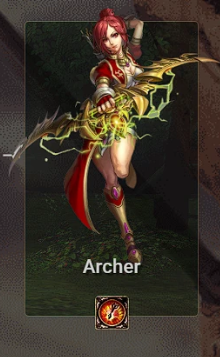
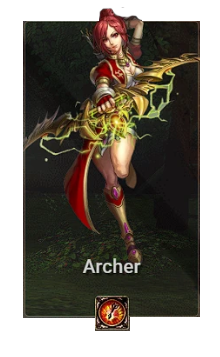
Wardrobe: dotted Coins/Gold price inputs + updated class portraits
Price fields now format with thousands dots as you type (450000 -> 450.000),
matching how they're already shown on the summary/public page. Also picks up
the refined class portrait crops.

diff --git a/src/components/wardrobe/WardrobeBuilder.tsx b/src/components/wardrobe/WardrobeBuilder.tsx
@@ -9,7 +9,7 @@ import {
 import { fetchWardrobeItems } from '../../lib/wardrobe/items';
 import { applyEquip, patchEquipped } from '../../lib/wardrobe/logic';
 import {
-  EMPTY_EQUIPMENT, SLOT_TO_ITEM_SLOT, WARDROBE_CLASSES,
+  EMPTY_EQUIPMENT, SLOT_TO_ITEM_SLOT, WARDROBE_CLASSES, fmtWardrobeNumber,
   type CharacterSoul, type Equipment, type EquipSlotKey, type ItemSlot, type WardrobeCharacter,
   type WardrobeClass, type WardrobeItem,
 } from '../../lib/wardrobe/types';
@@ -130,10 +130,20 @@ export function WardrobeBuilder({ editId, onDone }: { editId?: string; onDone: (
 
           <h2 className="mk-h2">{t('wd.sale.title')}</h2>
           <label className="mk-field"><span>{t('wd.sale.pricecoins')}</span>
-            <input type="number" min={0} value={priceCoins} onChange={(e) => setPriceCoins(e.target.value)} placeholder="0" />
+            <input
+              type="text" inputMode="numeric"
+              value={priceCoins ? fmtWardrobeNumber(Number(priceCoins)) : ''}
+              onChange={(e) => setPriceCoins(e.target.value.replace(/\D/g, ''))}
+              placeholder="0"
+            />
           </label>
           <label className="mk-field"><span>{t('wd.sale.pricegold')}</span>
-            <input type="number" min={0} value={priceGold} onChange={(e) => setPriceGold(e.target.value)} placeholder="0" />
+            <input
+              type="text" inputMode="numeric"
+              value={priceGold ? fmtWardrobeNumber(Number(priceGold)) : ''}
+              onChange={(e) => setPriceGold(e.target.value.replace(/\D/g, ''))}
+              placeholder="0"
+            />
           </label>
           <label className="mk-field"><span>{t('wd.sale.contactwhatsapp')}</span>
             <input value={contactWhatsapp} onChange={(e) => setContactWhatsapp(e.target.value)} placeholder={t('wd.sale.contactwhatsappph')} />
